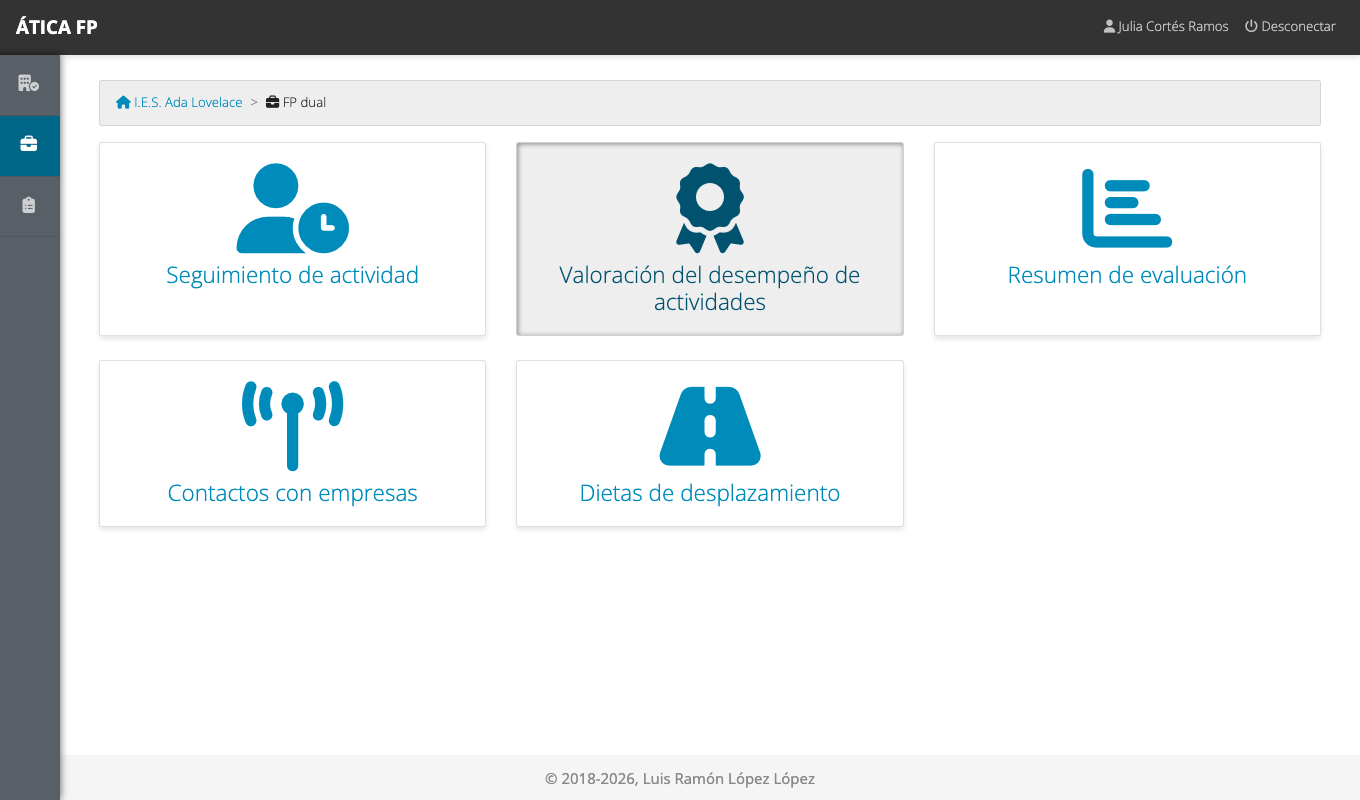
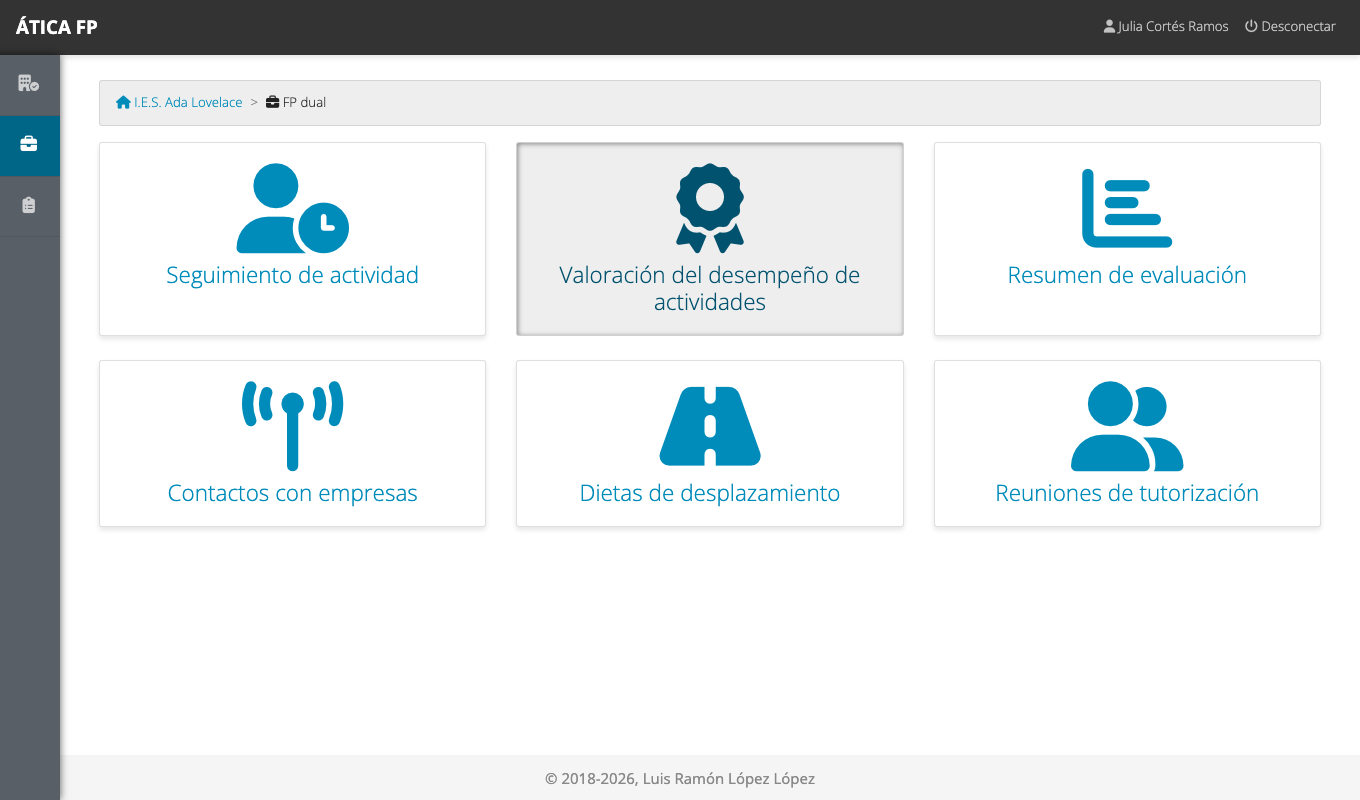
fix: En FP dual vuelve a aparecer en el menú la entrada «Reuniones de tutorización», sin la cual no se podían registrar reuniones desde la aplicación, y documentadas en el manual de usuario con su matriz de permisos

Changed region(s): [[0.7412, 0.4688, 0.9265, 0.625]]

diff --git a/tests/Functional/Permissions/PermissionMatrix.php b/tests/Functional/Permissions/PermissionMatrix.php
@@ -242,6 +242,12 @@ final class PermissionMatrix
                         ['Ver el resumen de evaluación', 'GET /dual/resultado/estudiante/listar/{year}/1'],
                         ['Obtener el informe de resultados de un alumno', 'GET /dual/resultado/estudiante/{dualStudent}'],
                     ]),
+                    self::section('Reuniones de tutorización', [
+                        ['Ver las reuniones', 'GET /dual/reunion/listar/{year}/1'],
+                        ['Registrar una reunión', 'GET /dual/reunion/nueva/{year}'],
+                        ['Editar una reunión', 'GET /dual/reunion/{meeting}'],
+                        ['Eliminar reuniones', 'POST /dual/reunion/eliminar items[]={meeting}'],
+                    ]),
                     self::section('Contactos con empresas', [
                         ['Ver los contactos con empresas', 'GET /dual/contacto/listar/{year}/1'],
                         ['Registrar un contacto', 'GET /dual/contacto/nuevo'],

diff --git a/src/Service/Module/WltModule.php b/src/Service/Module/WltModule.php
@@ -128,6 +128,19 @@ class WltModule implements ModuleBuilderInterface
                 $menu1->addChild($menu2);
             }
 
+            if ($this->security->isGranted(OrganizationVoter::WLT_ACCESS_MEETING, $organization)) {
+                $menu2 = new MenuItem();
+                $menu2
+                    ->setName('work_linked_training_meeting')
+                    ->setRouteName('work_linked_training_meeting_list')
+                    ->setCaption('menu.work_linked_training.meeting')
+                    ->setDescription('menu.work_linked_training.meeting.detail')
+                    ->setIcon('user-friends')
+                    ->setPriority(9000);
+
+                $menu1->addChild($menu2);
+            }
+
             $menu2 = new MenuItem();
             $menu2
                 ->setName('work_linked_training_survey')

diff --git a/docs/manual/22-dual-tutoria-docente-y-de-grupo.md b/docs/manual/22-dual-tutoria-docente-y-de-grupo.md
@@ -12,12 +12,13 @@ persona puede ser las dos cosas; lo que puedes hacer depende de tu relación con
 | Registrar y revisar jornadas, bloquearlas y marcar faltas | ✅ | ✅ |
 | **Valorar** las concreciones realizadas y comentarlas | ✅ | ✅ |
 | Consultar el **resumen de evaluación** del alumnado | — | ✅ |
+| Registrar **reuniones de tutorización** con el alumnado | ✅ | ✅\* |
 | Registrar **contactos** con las empresas | ✅ | ✅\* |
 | Registrar **gastos de desplazamiento** | ✅ | ✅\* |
 | Rellenar las encuestas del alumnado y de la empresa en su nombre | ✅ | ✅ |
 | Rellenar tu **encuesta de satisfacción del centro** | ✅ | — |
 
-\* Si además das clase a alguno de los grupos del proyecto, que es lo habitual. Los contactos y los
+\* Si además das clase a alguno de los grupos del proyecto, que es lo habitual. Las reuniones, los contactos y los
 desplazamientos son una tarea de quien hace seguimiento o imparte docencia en la FP dual.
 
 La [matriz de permisos](27-dual-permisos.md) lo detalla pantalla a pantalla. La administración, la coordinación y
@@ -27,9 +28,9 @@ la jefatura pueden hacer lo mismo con todo su ámbito ([capítulo 21](21-dual-ge
 
 Tu menú de **FP dual** tiene las tarjetas **Seguimiento de actividad**, **Valoración del desempeño de
 actividades**, **Resumen de evaluación** (si eres tutor o tutora de grupo), **Contactos con empresas**, **Dietas de
-desplazamiento** y **Encuestas**.
+desplazamiento**, **Reuniones de tutorización** y **Encuestas**.
 
-![Menú de FP dual de una tutoría docente y de grupo: seguimiento de actividad, valoración del desempeño de actividades, resumen de evaluación, contactos con empresas, dietas de desplazamiento y encuestas](img/dual-inicio-tutoria.png)
+![Menú de FP dual de una tutoría docente y de grupo: seguimiento de actividad, valoración del desempeño de actividades, resumen de evaluación, contactos con empresas, dietas de desplazamiento, reuniones de tutorización y encuestas](img/dual-inicio-tutoria.png)
 
 ## Seguimiento diario
 
@@ -108,6 +109,40 @@ jornadas que ya la tengan marcada se mantienen).
 Si eres **tutor o tutora de grupo**, **Resumen de evaluación** te permite consultar, de cada estudiante del grupo,
 el resultado de todos los módulos. Cómo es el informe está explicado en el
 [capítulo 23](23-dual-profesorado-y-evaluacion.md#el-informe-de-resultados-de-un-estudiante).
+
+## Reuniones de tutorización {#reuniones-de-tutorizacion}
+
+**FP dual → Reuniones de tutorización** es el registro de las reuniones que el profesorado mantiene con el
+alumnado de un proyecto para hacer su seguimiento: qué se habló, quién estuvo y cuándo. Lo que registres aquí
+alimenta el [informe de reuniones](21-dual-gestion.md#informes) del proyecto, con un resumen por docente.
+
+![Listado de reuniones de tutorización: la reunión del 09/10/2026 registrada por Marta Jiménez en el proyecto de FP dual, con los dos estudiantes y la docente que participaron](img/dual-tutoria-reuniones.png)
+
+El listado muestra, de cada reunión, la fecha y la hora, quién la registró, el proyecto, el alumnado y el
+profesorado que participó. Con el **selector de curso** de arriba consultas también las de cursos anteriores, y
+con el **filtro** buscas por docente, proyecto o estudiante. Ves **las que has registrado**; si eres tutoría de
+grupo, también las del alumnado de tus grupos y aquellas en las que figuras como docente participante.
+
+Para registrar una reunión pulsa **Nueva reunión**:
+
+![Formulario de una reunión de tutorización: fecha y hora, docente que la registra, proyecto, estudiantes, docentes participantes y detalles](img/dual-tutoria-reunion-formulario.png)
+
+1. Indica la **fecha y la hora** (por defecto, el momento actual).
+2. **Registrada por**: eres tú. Solo el profesorado del curso puede registrar reuniones.
+3. Elige el **proyecto**: solo aparecen los proyectos en los que participas.
+4. Marca los **estudiantes** que asistieron. La lista se rellena al elegir el proyecto con el alumnado adherido en
+   esa fecha; si no hay ninguno, el campo queda desactivado.
+5. Marca los **docentes** participantes (al menos uno, que normalmente eres tú).
+6. En **Detalles** escribe lo tratado, en texto sin formato.
+7. Pulsa **Guardar cambios**.
+
+Para corregir una reunión, ábrela desde el listado. Para eliminar varias, márcalas, pulsa **Eliminar las reuniones
+seleccionadas** y confirma.
+
+!!! note "Quién puede modificar una reunión"
+    Solo **quien la registró** puede modificarla o eliminarla, y solo en el curso actual (y la administración del
+    centro). El resto de docentes que la ven, como participantes, tutoría de grupo, coordinación o jefatura, la
+    abren en **solo lectura**: los campos aparecen desactivados y no hay botón de guardar.
 
 ## Contactos con empresas {#contactos-con-empresas}
 

diff --git a/docs/manual/21-dual-gestion.md b/docs/manual/21-dual-gestion.md
@@ -18,7 +18,7 @@ Tres personas pueden gestionar un proyecto, con matices:
 - Definir las **actividades** y sus **concreciones**, y el **programa formativo de cada empresa**.
 - Crear los **convenios** de cada estudiante y su **calendario** de alternancia.
 - **Seguir** el estado de todos los convenios y **valorar** las actividades realizadas.
-- Consultar los **contactos** y **desplazamientos** del profesorado.
+- Consultar las **reuniones de tutorización**, los **contactos** y los **desplazamientos** del profesorado.
 - Obtener los **informes** del proyecto y de las encuestas.
 
 La [matriz de permisos](27-dual-permisos.md) detalla cada acción.
@@ -26,10 +26,10 @@ La [matriz de permisos](27-dual-permisos.md) detalla cada acción.
 ## Dónde está
 
 En el menú de **FP dual**, la tarjeta **Proyectos** reúne la preparación; el resto de tarjetas (seguimiento,
-valoración, resumen de evaluación, contactos, dietas, encuestas e informes) son las mismas que ven las demás
-personas, pero con acceso a todos los datos de tu ámbito.
+valoración, resumen de evaluación, contactos, dietas, reuniones, encuestas e informes) son las mismas que ven las
+demás personas, pero con acceso a todos los datos de tu ámbito.
 
-![Menú de FP dual de la coordinación del proyecto: proyectos, seguimiento de actividad, valoración, resumen de evaluación, contactos con empresas, dietas, encuestas e informes](img/dual-inicio-coordinacion.png)
+![Menú de FP dual de la coordinación del proyecto: proyectos, seguimiento de actividad, valoración, resumen de evaluación, contactos con empresas, dietas, reuniones de tutorización, encuestas e informes](img/dual-inicio-coordinacion.png)
 
 ## Proyectos {#proyectos}
 
@@ -194,6 +194,13 @@ Como gestión puedes ver todo el trabajo diario del proyecto:
 
   ![Resumen de desplazamientos de FP dual por docente, con número de desplazamientos, distancia, otros gastos y verificación](img/dual-gastos-resumen.png)
 
+- **Reuniones de tutorización**: las reuniones que el profesorado ha registrado con el alumnado
+  ([cómo se registran](22-dual-tutoria-docente-y-de-grupo.md#reuniones-de-tutorizacion)). La administración ve todas;
+  la coordinación, las de sus proyectos; la jefatura, las del alumnado de su departamento. Puedes consultarlas, pero
+  solo las modifica quien las registró (o la administración).
+
+  ![Reuniones de tutorización vistas por la administración: la reunión del 09/10/2026 de Marta Jiménez con dos estudiantes del proyecto](img/dual-reuniones.png)
+
 ## Informes {#informes}
 
 La tarjeta **Informes** (solo para administración, coordinación y jefatura) genera los documentos del proyecto en
@@ -215,8 +222,8 @@ PDF. Elige el informe, después el proyecto en el listado, y la aplicación lo g
 
 - **La coordinación y la jefatura solo gestionan su ámbito.** Los proyectos de otras personas o de otras
   enseñanzas, a la administración del centro.
-- **Registrar contactos y desplazamientos** requiere ser docente del curso: la administración del centro, si no
-  está en el profesorado, puede consultarlos y modificarlos pero no registrarlos.
+- **Registrar reuniones, contactos y desplazamientos** requiere ser docente del curso: la administración del
+  centro, si no está en el profesorado, puede consultarlos y modificarlos pero no registrarlos.
 - **Los registros diarios** los hacen las tutorías, el alumnado y la empresa; como gestión puedes consultarlos y
   corregirlos.
 - **Los usuarios del alumnado y del profesorado** se crean al [importarlos](05-importaciones.md).

diff --git a/docs/manual/27-dual-permisos.md b/docs/manual/27-dual-permisos.md
@@ -69,6 +69,11 @@ actualizar el manual.
 | Abrir la valoración de actividades de un convenio (consulta o modificación según el perfil) | ✅ | ✅ | ✅ | ✅ | — | ✅ | — | ✅ | — | — |
 | Ver el resumen de evaluación | ✅ | ✅ | ✅ | ✅ | — | ✅ | — | — | — | — |
 | Obtener el informe de resultados de un alumno | ✅ | ✅ | ✅ | ✅ | — | ✅ | — | — | — | — |
+| **Reuniones de tutorización** |  |  |  |  |  |  |  |  |  |  |
+| Ver las reuniones | ✅ | ✅ | ✅ | ✅ | ✅ | ✅ | — | — | — | — |
+| Registrar una reunión | — | ✅ | ✅ | ✅ | ✅ | ✅ | — | — | — | — |
+| Editar una reunión | ✅ | ✅ | ✅ | ✅ | — | — | — | — | — | — |
+| Eliminar reuniones | ✅ | — | — | ✅ | — | — | — | — | — | — |
 | **Contactos con empresas** |  |  |  |  |  |  |  |  |  |  |
 | Ver los contactos con empresas | ✅ | ✅ | ✅ | ✅ | ✅ | ✅ | — | — | — | — |
 | Registrar un contacto | — | ✅ | ✅ | ✅ | ✅ | ✅ | — | — | — | — |
@@ -121,6 +126,9 @@ actualizar el manual.
   por cualquier docente; la jefatura puede registrar pero no eliminar los de otra persona.
 - **Encuestas.** Los listados solo contienen lo que corresponde a quien los abre. El alumnado ve su encuesta; la
   empresa, la suya; y las tutorías, coordinación y jefatura, las tres. El profesorado del grupo no participa en ninguna.
-- **Reuniones de tutorización.** El informe de reuniones aparece en los informes del proyecto, pero la
-  aplicación no tiene hoy una entrada en el menú para registrar reuniones nuevas.
+- **Reuniones de tutorización.** Solo el profesorado del curso puede registrarlas, así que la administración del
+  centro, si no es docente, no puede. Las modifica o elimina únicamente quien las registró (y la administración
+  del centro): el resto de perfiles que las ven (coordinación, jefatura o tutoría de grupo) las abren en solo
+  lectura, y por eso la tabla marca «Editar» donde se puede abrir la reunión. Las reuniones que ve cada perfil
+  están limitadas a su ámbito: las propias, las de sus proyectos o las de su alumnado.
 - **Módulo desactivado.** Si el módulo FP dual no está activo en el curso, ningún perfil tiene acceso a él.

diff --git a/docs/manual/23-dual-profesorado-y-evaluacion.md b/docs/manual/23-dual-profesorado-y-evaluacion.md
@@ -17,6 +17,7 @@ estudiante ha hecho en la empresa se vincula con los resultados de aprendizaje d
 - Ver el **resumen de evaluación** y el **informe de resultados** del alumnado al que das clase, limitados a tus
   módulos.
 - Ver los **contactos** con empresas y el **resumen de gastos**, y registrar los tuyos.
+- Registrar tus **reuniones de tutorización** con el alumnado.
 
 Solo ves a los estudiantes **de los grupos a los que das clase**. La [matriz de permisos](27-dual-permisos.md) lo
 resume.
@@ -24,10 +25,10 @@ resume.
 ## Dónde está
 
 Tu menú de **FP dual** tiene **Seguimiento de actividad**, **Valoración del desempeño de actividades**, **Resumen de
-evaluación**, **Contactos con empresas** y **Dietas de desplazamiento**. No tienes encuestas: en la FP dual solo las
-contestan el alumnado, la empresa y quien hace el seguimiento.
+evaluación**, **Contactos con empresas**, **Dietas de desplazamiento** y **Reuniones de tutorización**. No tienes
+encuestas: en la FP dual solo las contestan el alumnado, la empresa y quien hace el seguimiento.
 
-![Menú de FP dual del profesorado del grupo: seguimiento de actividad, valoración del desempeño de actividades, resumen de evaluación, contactos con empresas y dietas de desplazamiento](img/dual-docente-inicio.png)
+![Menú de FP dual del profesorado del grupo: seguimiento de actividad, valoración del desempeño de actividades, resumen de evaluación, contactos con empresas, dietas de desplazamiento y reuniones de tutorización](img/dual-docente-inicio.png)
 
 ## Consultar la valoración
 
@@ -83,6 +84,9 @@ evaluación es una decisión tuya: el informe te da los datos de partida.
   ([capítulo 22](22-dual-tutoria-docente-y-de-grupo.md#contactos-con-empresas)).
 - **Dietas de desplazamiento**: ves el resumen del profesorado y registras tus propios desplazamientos
   ([FCT: gastos](12-fct-tutoria-docente-y-de-grupo.md#gastos-de-desplazamiento)).
+- **Reuniones de tutorización**: registras las reuniones que mantienes con el alumnado de los proyectos en los que
+  das clase ([capítulo 22](22-dual-tutoria-docente-y-de-grupo.md#reuniones-de-tutorizacion)). Solo ves las que has
+  registrado tú.
 
 ## Qué no puedes hacer y a quién pedirlo
 

diff --git a/docs/manual/CAPTURAS.md b/docs/manual/CAPTURAS.md
@@ -117,7 +117,7 @@ datos de relleno sin acuerdos, útiles para mostrar listas con contenido y para 
 | | `encuestas-*` y `plantillas-*` (listados, ficha de encuesta, preguntas, ficha de pregunta, ficha de plantilla) | `07` | No |
 | | `plataforma-*` (centros, ficha de centro, usuarios, ficha de usuario) | `08` | No |
 | `capture-fct.mjs` | `fct-*` de la administración (`fct-inicio-gestion`, convocatorias, actividades, acuerdos, calendario, seguimiento, informes, visitas y gastos), de la jefatura, la tutoría docente (`fct-tutoria-*`, `fct-jornada-*`), el alumnado (`fct-alumnado-*`), la tutoría laboral (`fct-laboral-*`) y el responsable económico (`fct-economico-*`) | `10` a `16` | No |
-| `capture-dual.mjs` | `dual-*` de la administración (proyectos, alumnado adherido, actividades, concreciones, empresas, convenios, calendario, seguimiento, valoración, resumen, contactos, gastos e informes), de la coordinación y la jefatura, la tutoría docente y de grupo (`dual-tutoria-*`, `dual-jornada-*`, `dual-evaluacion-*`), el profesorado del grupo (`dual-docente-*`), el alumnado (`dual-alumnado-*`), la tutoría laboral (`dual-laboral-*`) y el responsable económico (`dual-economico-*`) | `20` a `27` | No |
+| `capture-dual.mjs` | `dual-*` de la administración (proyectos, alumnado adherido, actividades, concreciones, empresas, convenios, calendario, seguimiento, valoración, resumen, contactos, gastos, reuniones de tutorización e informes), de la coordinación y la jefatura, la tutoría docente y de grupo (`dual-tutoria-*`, `dual-jornada-*`, `dual-evaluacion-*`), el profesorado del grupo (`dual-docente-*`), el alumnado (`dual-alumnado-*`), la tutoría laboral (`dual-laboral-*`) y el responsable económico (`dual-economico-*`) | `20` a `27` | No |
 
 Cada script nuevo se anota aquí al crearlo.
 

diff --git a/docs/manual/20-dual-vision-general.md b/docs/manual/20-dual-vision-general.md
@@ -95,4 +95,4 @@ Las entradas del módulo, y quién las ve, son estas:
 | **Encuestas** | Encuestas de alumnado, empresa y centro | Según la encuesta (ver el capítulo de cada perfil) |
 | **Informes** | Informes de resultados y encuestas del proyecto | Administración, coordinación y jefatura |
 
-![Menú de FP dual de la administración del centro, con las entradas de proyectos, seguimiento, valoración, resumen de evaluación, contactos, dietas, encuestas e informes](img/dual-inicio-gestion.png)
+![Menú de FP dual de la administración del centro, con las entradas de proyectos, seguimiento, valoración, resumen de evaluación, contactos, dietas, reuniones, encuestas e informes](img/dual-inicio-gestion.png)
